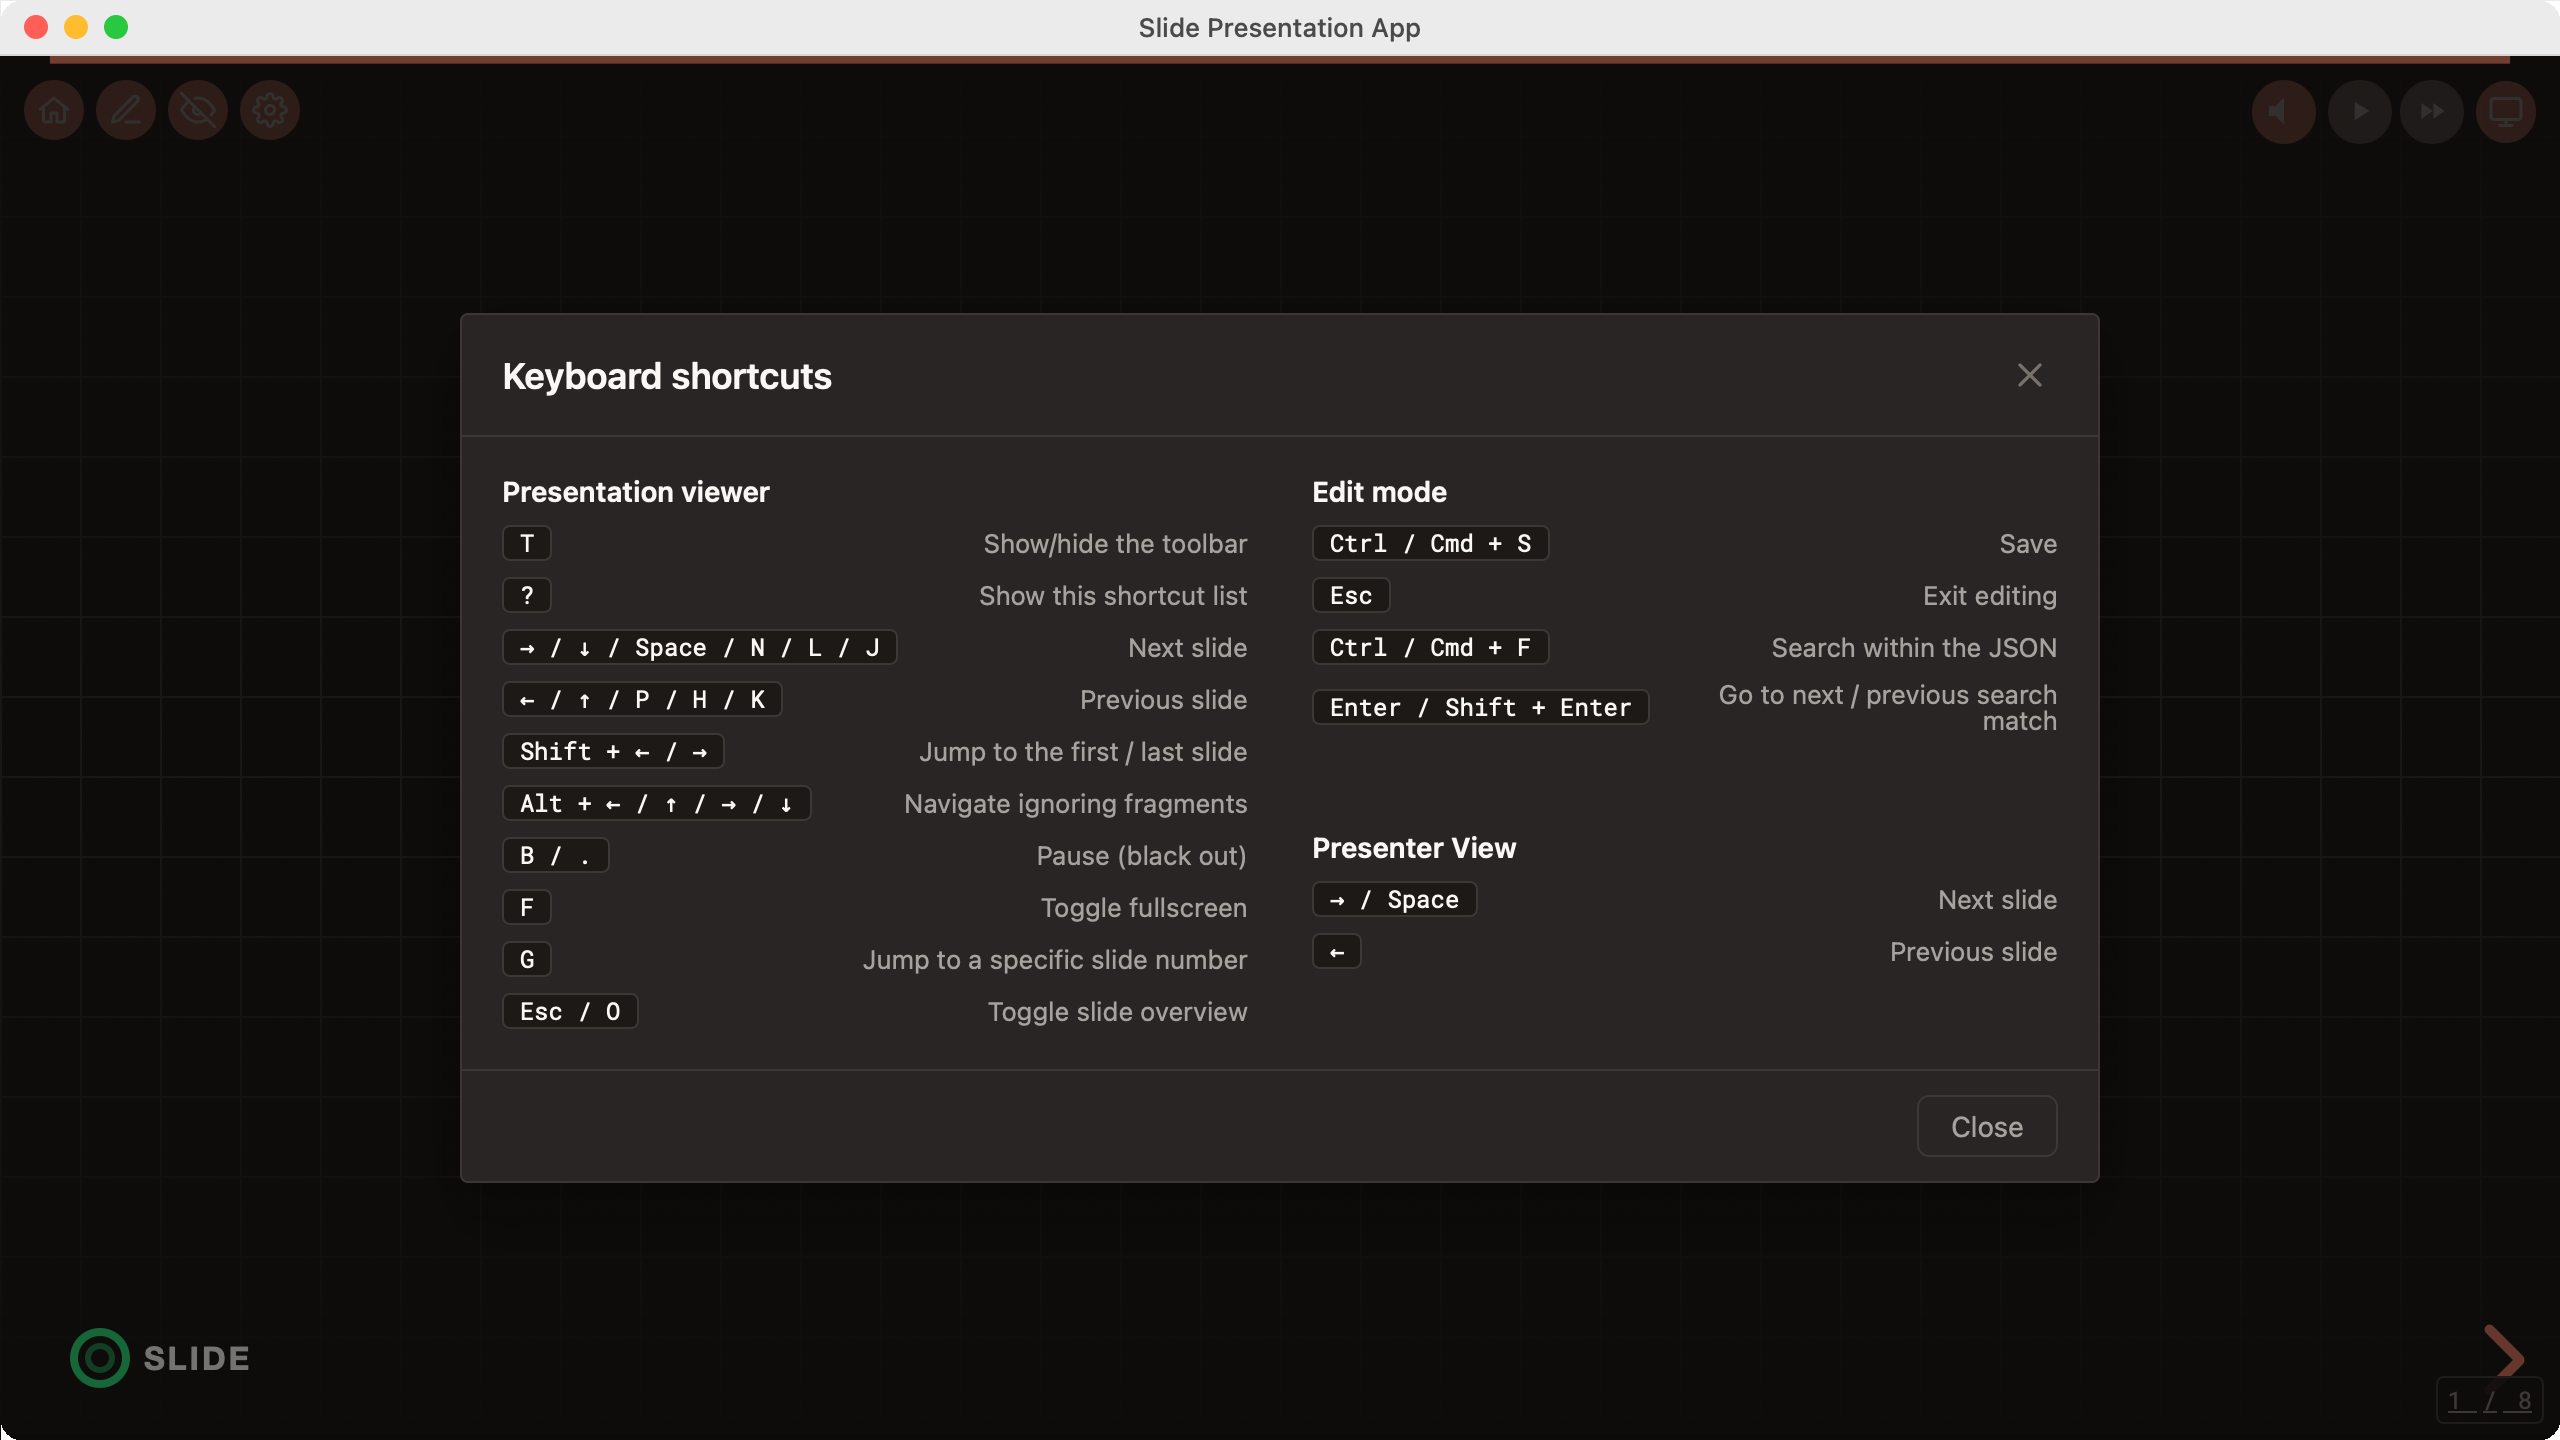
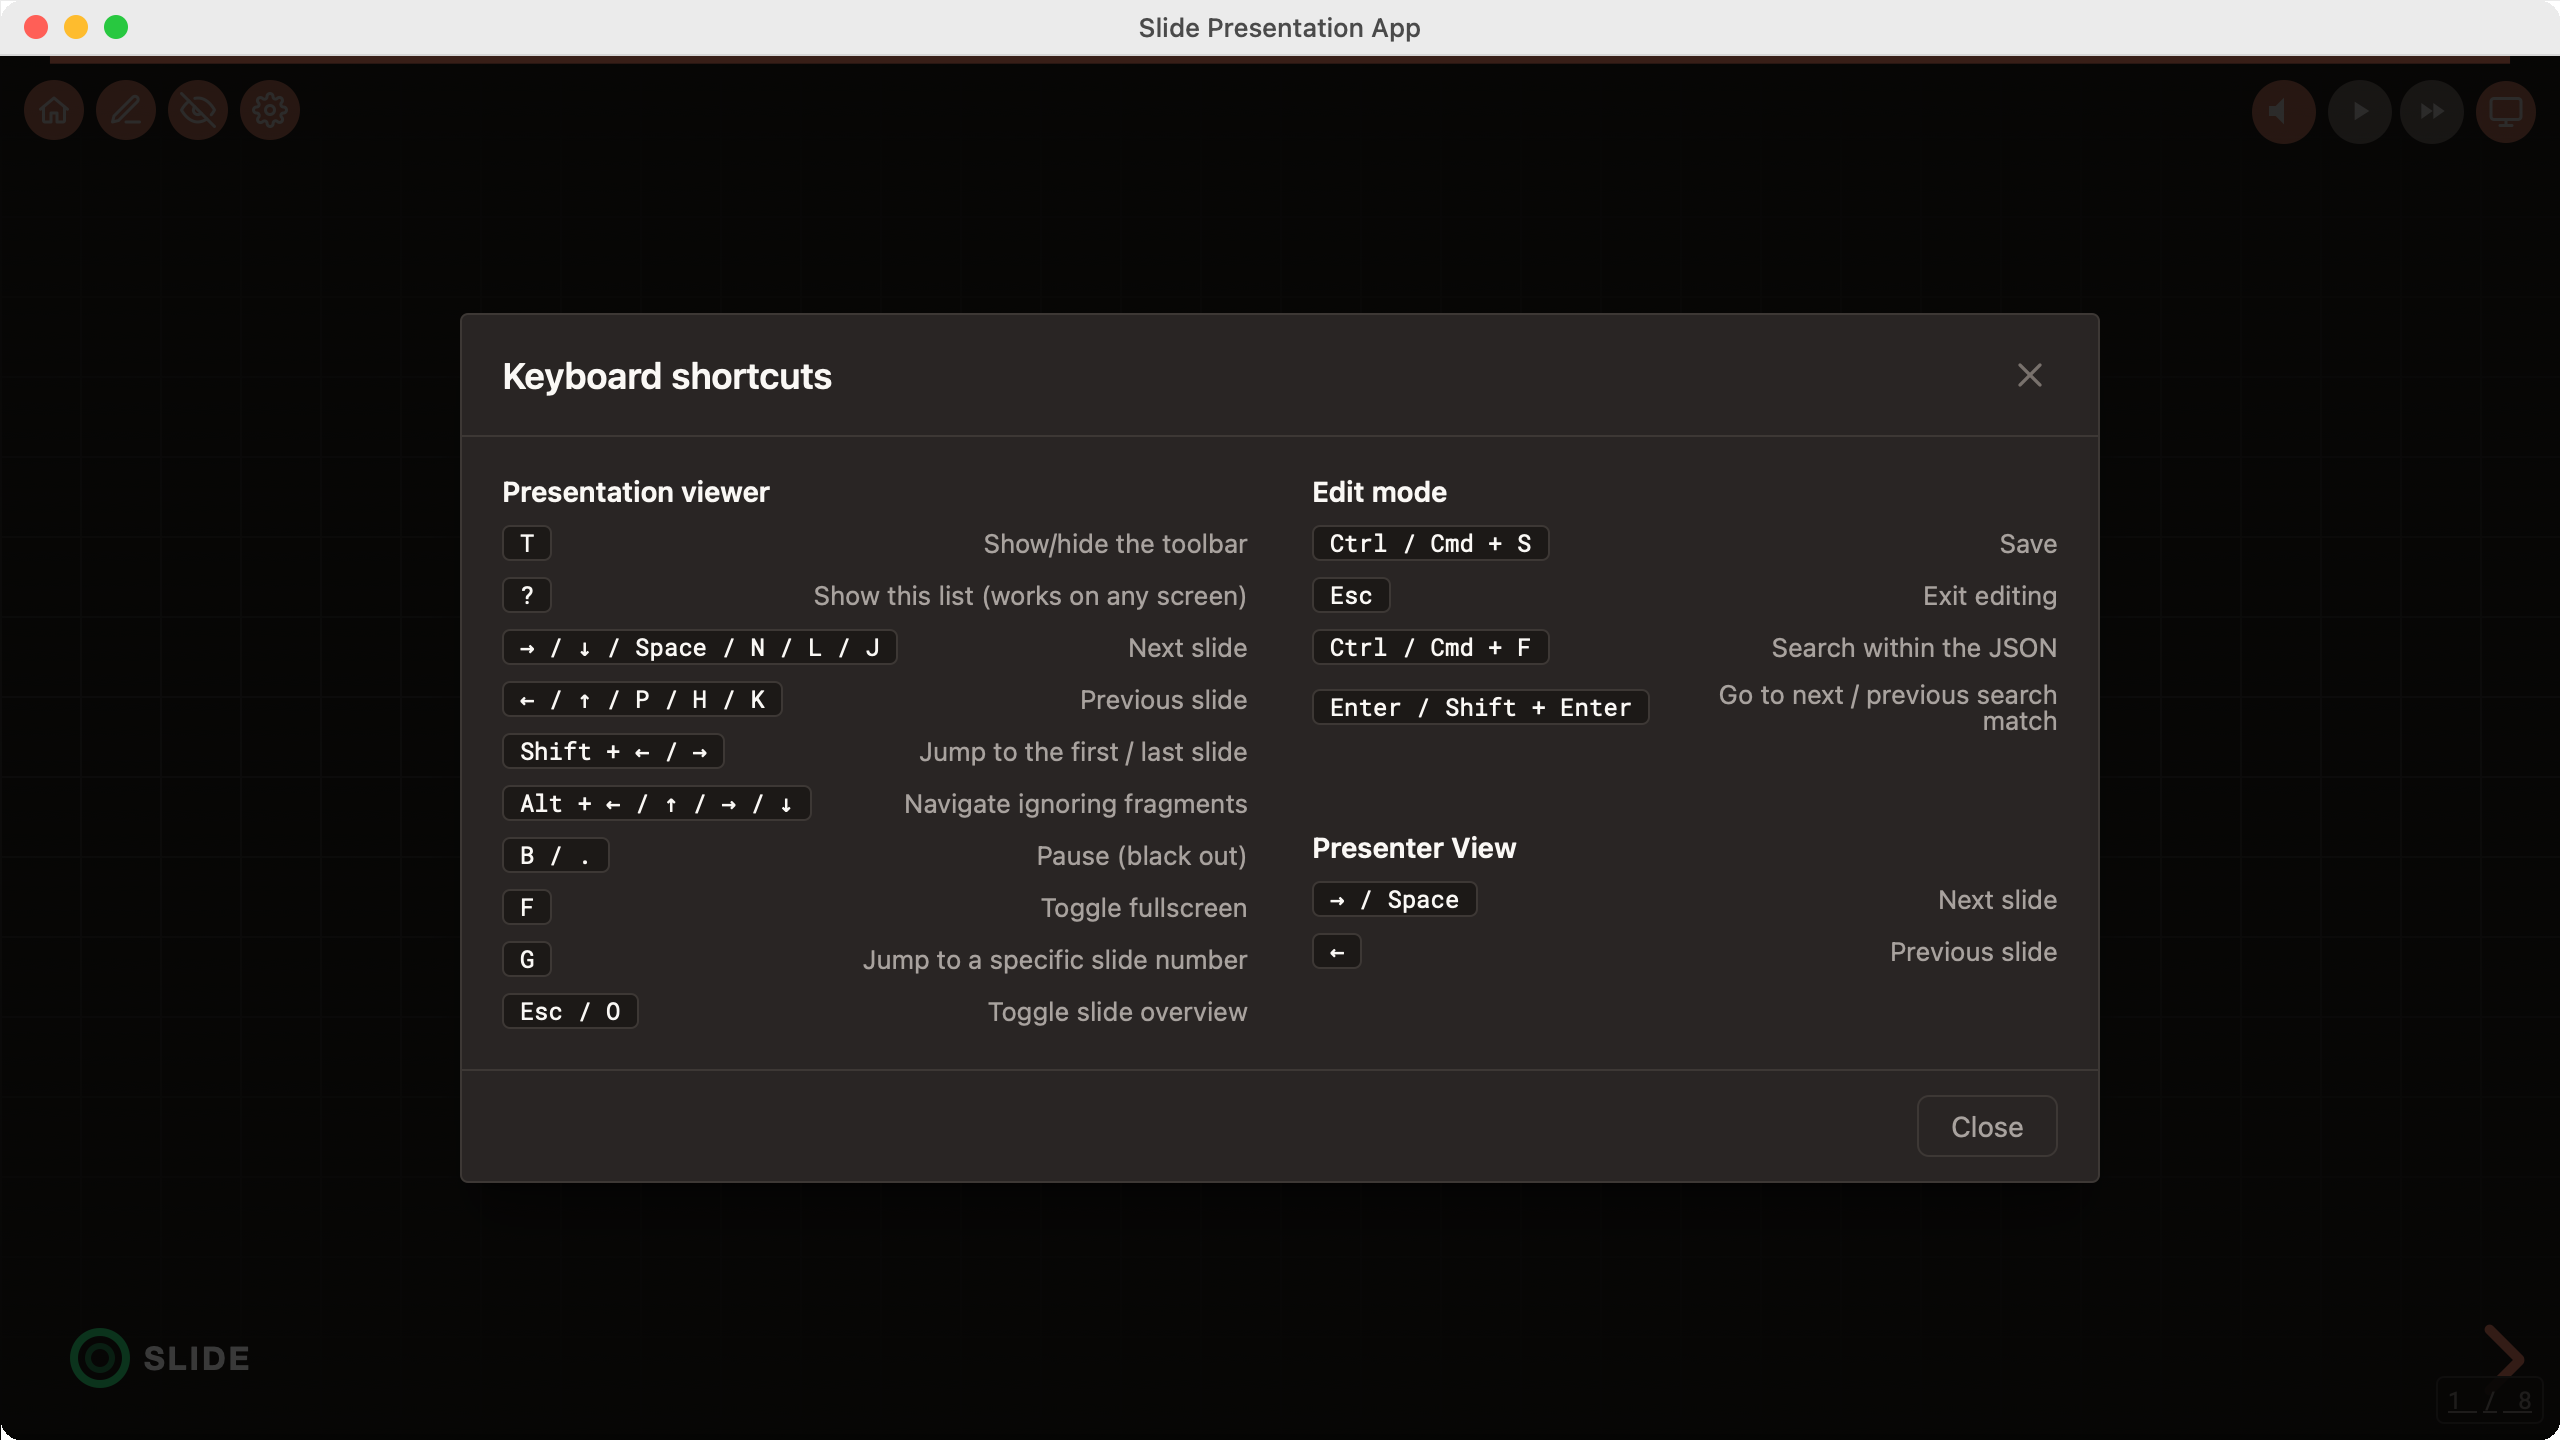
[docs] Reveal ヘルプ抑止の記述を実態へ訂正し、撮影経路を設定ダイアログ経由にする
- .sdd の 2 ファイルから誤診に基づく記述（「Reveal は 191 を一時停止に割り当てており
  ? でブラックアウトする」）を削除し、実際の原因（? と F1 が組み込みヘルプを開く）と
  help: false による抑止に訂正した
- e2e/README.md の spec 一覧に shortcuts.spec.ts を追加（settings.spec.ts の記述も実態へ）
- 撮影シナリオを ? キーから設定ダイアログ経由に変更。Playwright の press('?') は
  shiftKey なしのため Reveal が一時停止と解釈し、pause オーバーレイが写り込んでいた
- shortcuts.png を再撮影（pause オーバーレイの除去と説明文の変更を反映）

diff --git a/.sdd/specification/language-settings_design.md b/.sdd/specification/language-settings_design.md
@@ -325,7 +325,7 @@ interface HomeScreenProps {
 |------------------------|----------------------------------------------------------------------------------------------|
 | NFR-001: 言語切り替え500ms以内 | React Context の状態更新により即座に再レンダリング。言語リソースはアプリ起動時にすべてメモリに読み込み済みのため、切り替え時のI/Oなし                  |
 | Reveal.js非干渉           | 設定ウィンドウのオーバーレイ要素に `onKeyDown` ハンドラで `stopPropagation()` を設定し、キーボードイベントがReveal.jsに伝播するのを防止 |
-| `?` キーと Reveal の衝突     | Reveal は keyCode 191（`/`）を一時停止に割り当てており、`?` は `Shift` + `/` のため一覧を開くたびにスライドがブラックアウトしていた。`useReveal` の `keyboard: { 191: null }` で当該バインドのみ外して解消（一時停止は `B` / `.` で従来どおり可能）。回帰は `e2e/shortcuts.spec.ts` で検証する |
+| `?` キーと Reveal の衝突     | Reveal は `?`（keyCode 191 + Shift）と `F1` で**英語固定の組み込みヘルプ**を開く（`keyboard.js` の `toggleHelp()`）。アプリ独自キーを含まない一覧が出てしまうため、`useReveal` に `help: false` を渡して抑止する。キーバインド自体は潰さないので `/`（Shift なし）による Reveal 既定の一時停止は残る。回帰は `e2e/shortcuts.spec.ts` で検証する |
 
 ---
 
@@ -343,7 +343,7 @@ interface HomeScreenProps {
 | コンポーネントテスト | ShortcutsDialog（ビューア・編集モード・発表者ビューの全節と各キーが表示されること） | 主要パス    |
 | 統合テスト      | 言語切り替え → localStorage保存 → 再読み込み復元      | ハッピーパス  |
 | E2E（Playwright） | `e2e/settings.spec.ts` — 設定ダイアログの開閉と各コントロール、ホーム画面から開くとグローバル設定のみ表示（FR-011）、ホーム画面での言語切り替えで UI 文言が即座に変わる（FR-004 / UR-LANG-001） | ハッピーパス |
-| E2E（Playwright） | `e2e/shortcuts.spec.ts` — `?` で全節が開く / `?` でスライドが一時停止しない（Reveal の keyCode 191 との衝突の回帰） / `B` の一時停止は維持 / ホーム画面でも `?` で開く | ハッピーパス＋回帰 |
+| E2E（Playwright） | `e2e/shortcuts.spec.ts` — `?` で全節が開く / Reveal 組み込みヘルプが `?`・`F1` のどちらでも開かない（`help: false` の回帰） / `B` と `/` による Reveal 既定の一時停止は維持 / ホーム画面でも `?` で開く | ハッピーパス＋回帰 |
 
 ---
 
@@ -409,7 +409,8 @@ interface HomeScreenProps {
 
 - `?` キーの `keydown` 購読を `App` から `RootContent` へ移動。ダイアログの所有者と同じ層に置き、ホーム・プレゼンテーション・編集のどの画面からでも開けるようにした（`App` の `onOpenShortcuts` prop は削除。`T` キーは `toolbarHidden` がローカル状態のため `App` に残す）
 - `ShortcutsDialog` に「発表者ビュー」節（`→` / `Space` / `←`）を追加し、3 節を 2 カラム配置にして 1280x720 でスクロールなしに収まるようにした（`assets/locales/*.json` に `shortcuts.presenterSection` を追加）
-- **既存バグの修正**: Reveal は keyCode 191（`/`）を一時停止に割り当てており、`?` は `Shift` + `/` のため一覧を開くたびにスライドがブラックアウトしていた。`useReveal` の `keyboard: { 191: null }` で当該バインドのみ外した（`B` / `.` での一時停止は維持。`src/reveal.d.ts` の `keyboard` 型も実仕様へ拡張）
+- **既存バグの修正**: Reveal は `?`（keyCode 191 + Shift）と `F1` で英語固定の組み込みヘルプを開くため、アプリ独自キーを含まない一覧が重なって出ていた。`useReveal` に `help: false` を渡して抑止した（`src/reveal.d.ts` に `help?: boolean` を追加）。当初 `keyboard: { 191: null }` でキーバインドごと潰す実装にしたが、`F1` 経路が残り `/` の一時停止まで失う誤った層だったため、機能フラグで切る形に改めた
+- 入力中ガード（`INPUT` / `TEXTAREA` / `contentEditable`）を `src/keyboardTarget.ts` の `isTypingTarget()` に集約（Root・`App`・`SlideEditor` の 3 箇所が共有）
 - README 英日からキーマップの表（プレゼンビューア / 編集モード / 発表者ビュー）を削除し、`?` で開ける旨と `shortcuts.png` のみを残した。キーマップの真実源をダイアログ 1 つに統一して実装との乖離を防ぐ
 - 回帰テストを `e2e/shortcuts.spec.ts` に追加（全節の表示 / `?` で一時停止しない / `B` は一時停止する / ホーム画面でも開く）
 

diff --git a/e2e/README.md b/e2e/README.md
@@ -25,7 +25,8 @@ npx playwright test e2e/home.spec.ts   # 単一 spec
 |---|---|
 | `home.spec.ts` | ホーム画面のタイトル・「ファイルを開く」「サンプルを開く」・空の最近一覧、サンプル起動でデッキ描画 |
 | `presentation.spec.ts` | 全 fixture スライドが section 描画される / 表紙のタイトル・サブタイトル / 矢印キーでの遷移 / ロゴ表示 |
-| `settings.spec.ts` | 設定ダイアログの開閉、言語セレクト・スクロール速度入力の存在 |
+| `settings.spec.ts` | 設定ダイアログの開閉、言語セレクト・スクロール速度入力の存在、ホーム画面から開くとグローバル設定のみ表示・言語切り替えの即時反映 |
+| `shortcuts.spec.ts` | `?` でショートカット一覧が全節表示される / Reveal 組み込みヘルプが `?`・`F1` で開かない / `B`・`/` の一時停止は維持 / ホーム画面でも `?` で開く |
 | `presenter-view.spec.ts` | スピーカーノート本文・要点サマリー全項目・次スライドプレビュー・前スライド境界メッセージ |
 | `layouts.spec.ts` | section / content(steps) / content(tiles) / two-column / bleed / custom の各レイアウトが期待内容を描画 |
 

diff --git a/.sdd/specification/presentation-foundation_design.md b/.sdd/specification/presentation-foundation_design.md
@@ -222,10 +222,11 @@ const revealConfig = {
   progress: true,           // プログレスバー（FR_606）
 
   // インタラクション
-  // キーボードナビゲーション（FR_601）。オブジェクト指定でも既定バインドは有効で、
-  // keyCode 191（`/`）だけを無効化している。`?`（Shift + /）でショートカット一覧を開く際に
-  // Reveal の一時停止が同時に発火してスライドがブラックアウトするのを防ぐため（一時停止は B / . を使う）
-  keyboard: { 191: null },
+  keyboard: true,           // キーボードナビゲーション（FR_601）
+  // Reveal 組み込みのヘルプオーバーレイを無効化する。ショートカット一覧はアプリ側の
+  // ShortcutsDialog を唯一の真実源にしているため、? / F1 で英語固定の Reveal 一覧が
+  // 開くのを防ぐ。キーバインド自体は潰さないので / による一時停止は既定のまま残る
+  help: false,
   touch: true,              // タッチナビゲーション（FR_602）
   navigationMode: 'linear', // 線形ナビゲーション（ネストスライドなし）
 
